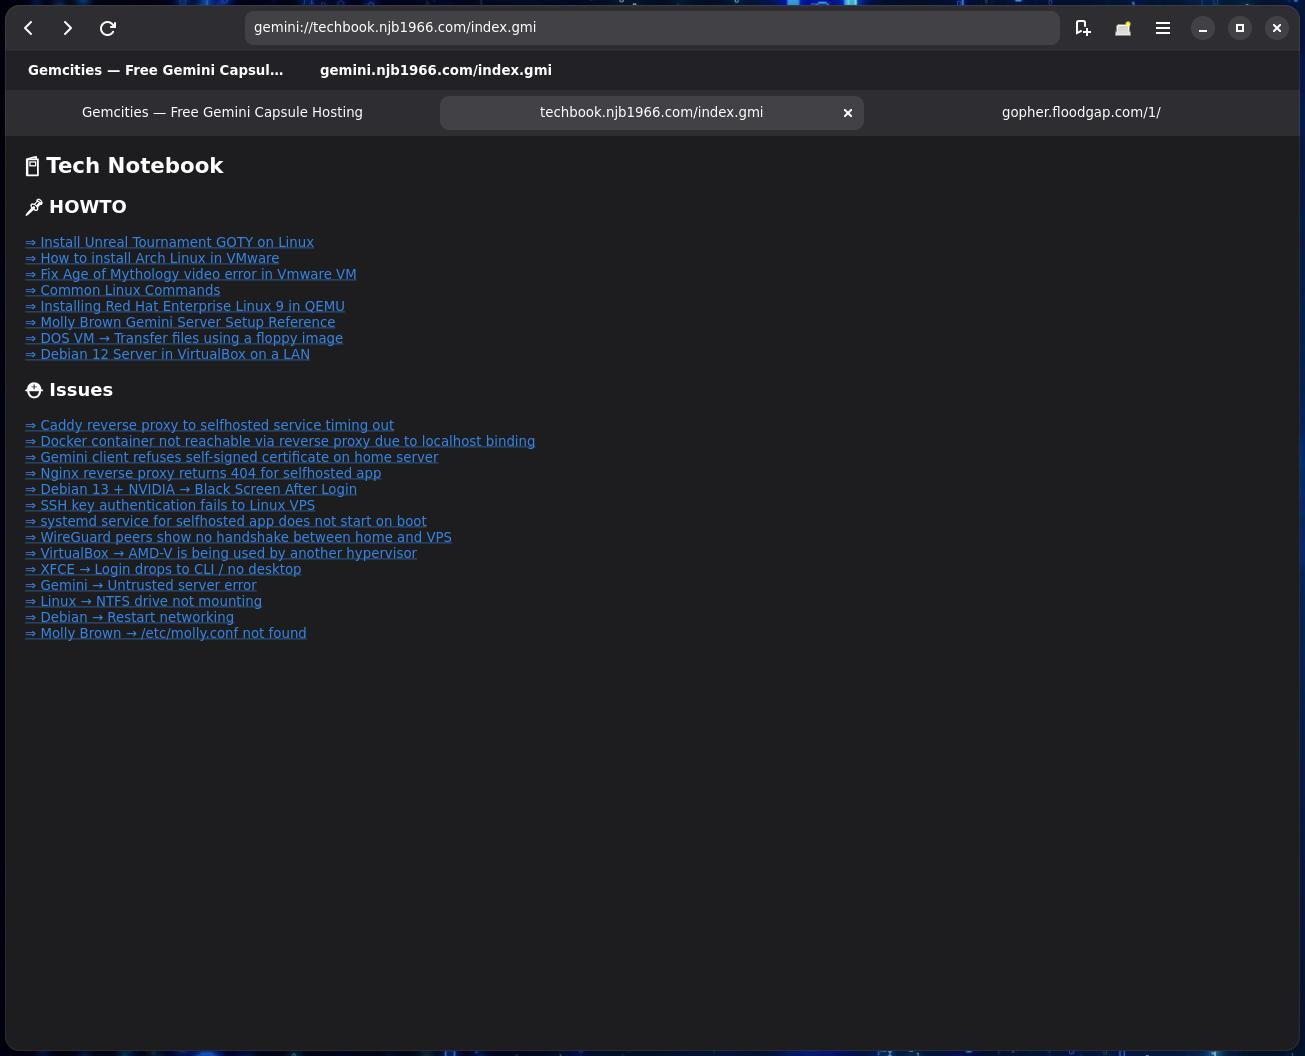
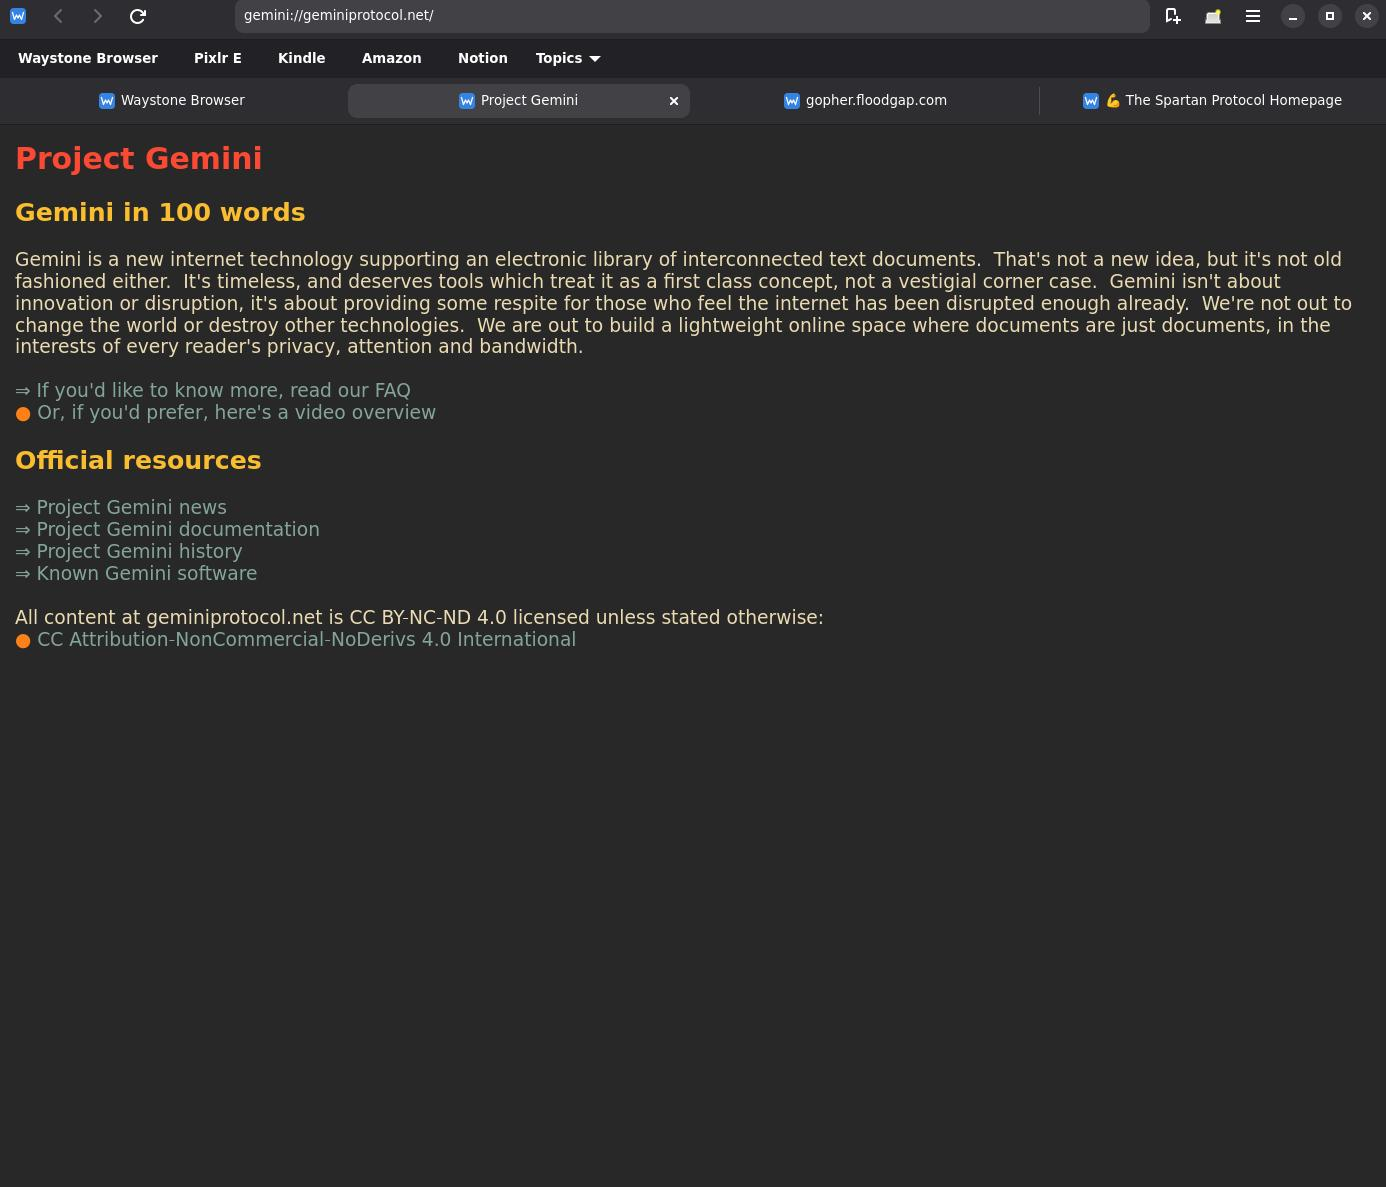
Update website: add Spartan/Titan, 4 new screenshots, full feature list
- Add Spartan and Titan to hero eyebrow, protocol pills, and features
- Replace screenshots with Flatpak-built versions; add Spartan screenshot
- Screenshots grid updated to 4 columns (2 on tablet, 1 on mobile)
- Protocol support section updated with Spartan and Titan descriptions
- Features list updated: streaming render, bookmarks bar folders,
  import/export, cross-protocol links, open in new tab
- Getting Started updated to mention Flathub
- Footer updated to list all five protocols

Changed region(s): [[0.0, 0.0, 1.0, 1.0]]

diff --git a/website/index.html b/website/index.html
@@ -4,7 +4,7 @@
   <meta charset="UTF-8" />
   <meta name="viewport" content="width=device-width, initial-scale=1.0" />
   <title>Waystone Browser</title>
-  <meta name="description" content="Waystone Browser — a GUI browser for WWW, Gemini, and Gopher with client certificate identity support." />
+  <meta name="description" content="Waystone Browser — a GUI browser for HTTP, Gemini, Gopher, Spartan, and Titan with client certificate identity support." />
   <link rel="icon" href="waystone-icon.png" type="image/png" />
   <style>
     :root {
@@ -179,7 +179,7 @@
 
     .screenshots {
       display: grid;
-      grid-template-columns: repeat(3, 1fr);
+      grid-template-columns: repeat(4, 1fr);
       gap: 16px;
       margin-top: 28px;
     }
@@ -316,6 +316,10 @@
       border-radius: 4px;
     }
 
+    @media (max-width: 900px) {
+      .screenshots { grid-template-columns: repeat(2, 1fr); }
+    }
+
     @media (max-width: 860px) {
       .info { padding: 28px; }
       .info-grid { grid-template-columns: 1fr; gap: 24px; }
@@ -331,12 +335,12 @@
 
     @media (max-width: 860px) {
       .hero { grid-template-columns: 1fr; }
-      .screenshots { grid-template-columns: 1fr; }
       .hero-copy { padding: 28px; }
       header { margin-bottom: 24px; }
     }
 
     @media (max-width: 520px) {
+      .screenshots { grid-template-columns: 1fr; }
       .wrap { padding: 20px 14px 36px; }
       .hero-copy, .hero-art, .info { padding: 22px; }
       .actions { flex-direction: column; }
@@ -356,12 +360,12 @@
     <main>
       <section class="hero">
         <div class="hero-copy card">
-          <div class="eyebrow">WWW · Gemini · Gopher</div>
+          <div class="eyebrow">HTTP · Gemini · Gopher · Spartan · Titan</div>
           <h1>Find your path with <span class="accent">Waystone</span>.</h1>
           <p class="sub">
             Waystone Browser is a graphical browser for Linux that lets you explore the
-            modern web, Geminispace, and Gopherspace in one place — complete with
-            client certificate identity support so your Gemini account travels with you.
+            modern web, Geminispace, Gopherspace, and Spartanspace in one place —
+            with client certificate identity support so your Gemini account travels with you.
           </p>
 
           <div class="actions">
@@ -373,6 +377,8 @@
             <span class="pill">HTTP / HTTPS</span>
             <span class="pill">Gemini</span>
             <span class="pill">Gopher</span>
+            <span class="pill">Spartan</span>
+            <span class="pill">Titan</span>
           </div>
         </div>
 
@@ -394,11 +400,14 @@
           <img src="waystone-gopher.jpg" alt="Waystone browsing Gopher" loading="lazy" />
           <p class="screenshot-caption">Gopher</p>
         </div>
+        <div class="screenshot-card card">
+          <img src="waystone-spartan.jpg" alt="Waystone browsing a Spartan site" loading="lazy" />
+          <p class="screenshot-caption">Spartan</p>
+        </div>
       </section>
 
-      <!-- Identity callout -->
       <div class="highlight-box">
-        <h3>🔑 Portable Gemini Identities</h3>
+        <h3>Portable Gemini Identities</h3>
         <p>
           Waystone fully supports Gemini client certificate authentication used by capsules
           like <strong>Station</strong> and Gemini-accessible BBS systems to identify users.
@@ -416,9 +425,9 @@
         <h2>About Waystone Browser</h2>
         <p class="lead">
           Waystone is a multi-protocol graphical browser for Linux that lets you navigate
-          the modern web, Geminispace, and Gopherspace from a single application.
-          Built with Python, GTK&nbsp;4, Libadwaita, and WebKitGTK... it feels at home
-          on any GNOME desktop.
+          the modern web, Geminispace, Gopherspace, and Spartanspace from a single application.
+          Built with Python, GTK&nbsp;4, Libadwaita, and WebKitGTK — it feels at home
+          on any GNOME or GTK desktop. Available on Flathub (pending review) and from source.
         </p>
 
         <div class="info-grid">
@@ -431,13 +440,22 @@
                 WebKitGTK; JavaScript on by default with a global toggle in Settings.
               </li>
               <li>
-                <span class="proto-label">Gemini</span> — Native gemtext renderer with
+                <span class="proto-label">Gemini</span> — Native streaming gemtext renderer,
                 TOFU certificate trust, redirect handling, input prompts, binary downloads,
-                and full client certificate identity support (status&nbsp;60/61/62).
+                and full client certificate identity support (status 60/61/62).
               </li>
               <li>
                 <span class="proto-label">Gopher</span> — Menu and text rendering,
-                type-7 search dialogs, and binary file download with Save&nbsp;As.
+                type-7 search dialogs, and binary file download with Save As.
+              </li>
+              <li>
+                <span class="proto-label">Spartan</span> — Gemtext rendering, redirect
+                handling, and data-input links (the <code>=</code> line type) rendered
+                with a prompt dialog for text submission.
+              </li>
+              <li>
+                <span class="proto-label">Titan</span> — Upload text or files to Gemini
+                capsules via <code>titan://</code> links, with optional auth token support.
               </li>
             </ul>
           </div>
@@ -447,14 +465,17 @@
             <ul>
               <li>Tabbed browsing — open, close, duplicate, and cycle tabs</li>
               <li>Session restore — your tabs reopen on next launch</li>
-              <li>Bookmarks with folder organisation and a Bookmarks Bar</li>
+              <li>Streaming Gemini render — content appears as it arrives</li>
+              <li>Bookmarks with arbitrarily nested folders</li>
+              <li>Bookmarks Bar — pinned toolbar with folder dropdowns</li>
+              <li>Import / Export bookmarks as Netscape HTML or .gmi files</li>
               <li>Searchable history, auto-recorded per navigation</li>
               <li>Find in page — Ctrl+F with live match highlighting</li>
+              <li>Cross-protocol links — all five protocols interlink correctly</li>
+              <li>Open in new tab — middle-click or right-click any link</li>
               <li>Dark / Light / System colour scheme, applied immediately</li>
-              <li>7 built-in colour themes for Gemini / Gopher pages</li>
-              <li>Text size and body font controls for Gemini / Gopher</li>
-              <li>Protocol-differentiated link icons (⇒ local, ● remote)</li>
-              <li>Noto Color Emoji fallback in all themes</li>
+              <li>7 built-in colour themes for Gemini / Gopher / Spartan pages</li>
+              <li>Text size and body font controls</li>
               <li>Per-tab zoom and print for web tabs</li>
             </ul>
           </div>
@@ -478,7 +499,7 @@
               <li>F5 / Ctrl+R — Reload &nbsp;|&nbsp; Ctrl+Shift+R — Hard reload</li>
               <li>Ctrl+L — Focus address bar</li>
               <li>Ctrl+T — New tab &nbsp;|&nbsp; Ctrl+W — Close tab</li>
-              <li>Ctrl+D — Bookmark / unbookmark current page</li>
+              <li>Ctrl+D — Bookmark current page</li>
               <li>Ctrl+B — Bookmarks manager &nbsp;|&nbsp; Ctrl+H — History</li>
               <li>Ctrl+Shift+B — Toggle Bookmarks Bar</li>
               <li>Ctrl+F — Find in page</li>
@@ -487,18 +508,16 @@
 
           <div class="info-block">
             <h3>Getting Started</h3>
-            <p>Requires Debian / Ubuntu with the following system packages:</p>
+            <p>Flatpak (recommended — pending Flathub approval):</p>
+            <p><code>flatpak install flathub com.waystone.browser</code></p>
+            <p>From source on Debian / Ubuntu, install system packages:</p>
             <p>
               <code>python3-gi &nbsp; gir1.2-gtk-4.0 &nbsp; gir1.2-adw-1</code><br>
-              <code>gir1.2-webkit-6.0 &nbsp; python3-aiosqlite &nbsp; python3-cryptography</code>
+              <code>gir1.2-webkit-6.0 &nbsp; python3-cryptography</code>
             </p>
             <p>
-              Clone the repository and run <code>./run.sh</code>, or install system-wide
-              with <code>pip install --user .</code>. A Flatpak manifest is also provided
-              for sandboxed installation on any Linux desktop.
-            </p>
-            <p>
-              Full documentation, releases, and source code are on
+              Clone the repository and run <code>./run.sh</code>.
+              Full documentation and source on
               <a href="https://github.com/njb1966/waystone-browser" target="_blank"
                  rel="noopener noreferrer" style="color:var(--accent2)">GitHub</a>.
             </p>
@@ -534,7 +553,7 @@
     </main>
 
     <footer>
-      waystone.njb1966.com &nbsp;·&nbsp; A browser for the web, Gemini, and Gopher
+      waystone.njb1966.com &nbsp;·&nbsp; A browser for the web, Gemini, Gopher, Spartan, and Titan
     </footer>
   </div>
 </body>